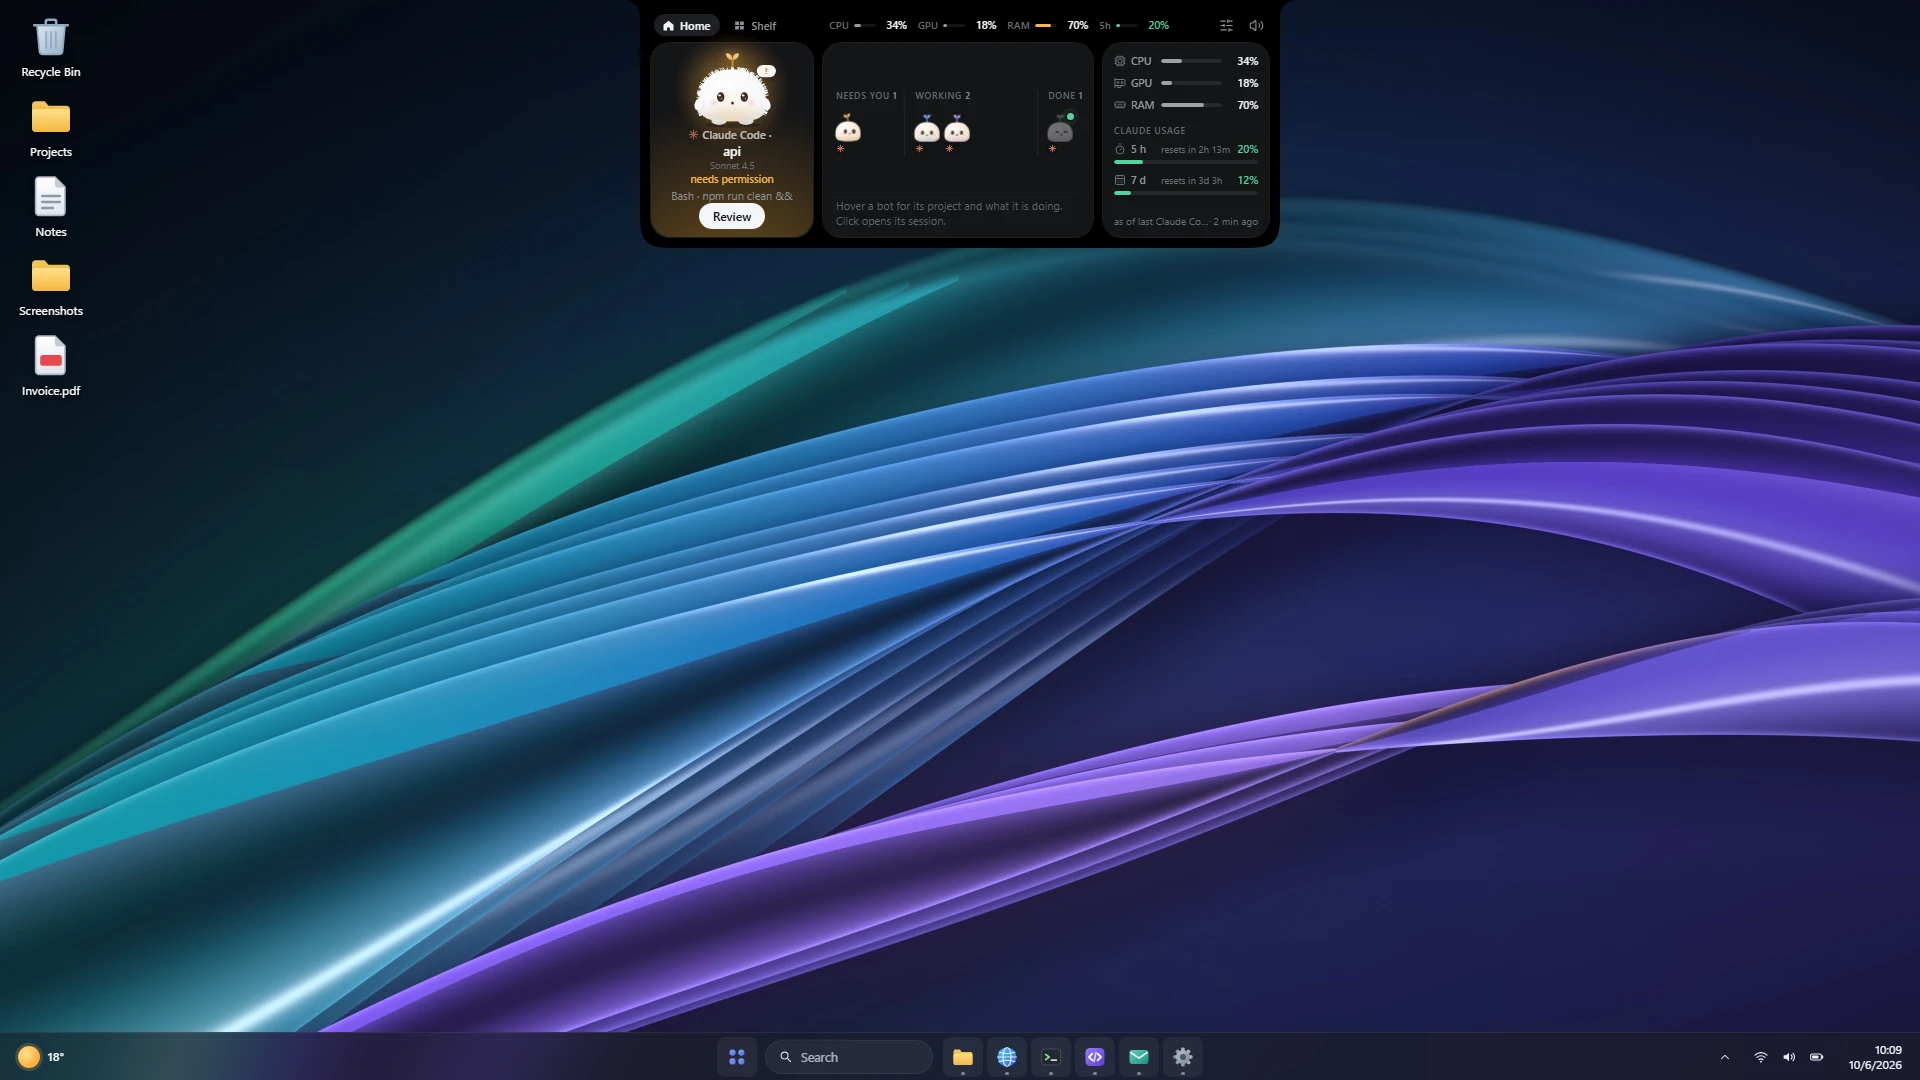
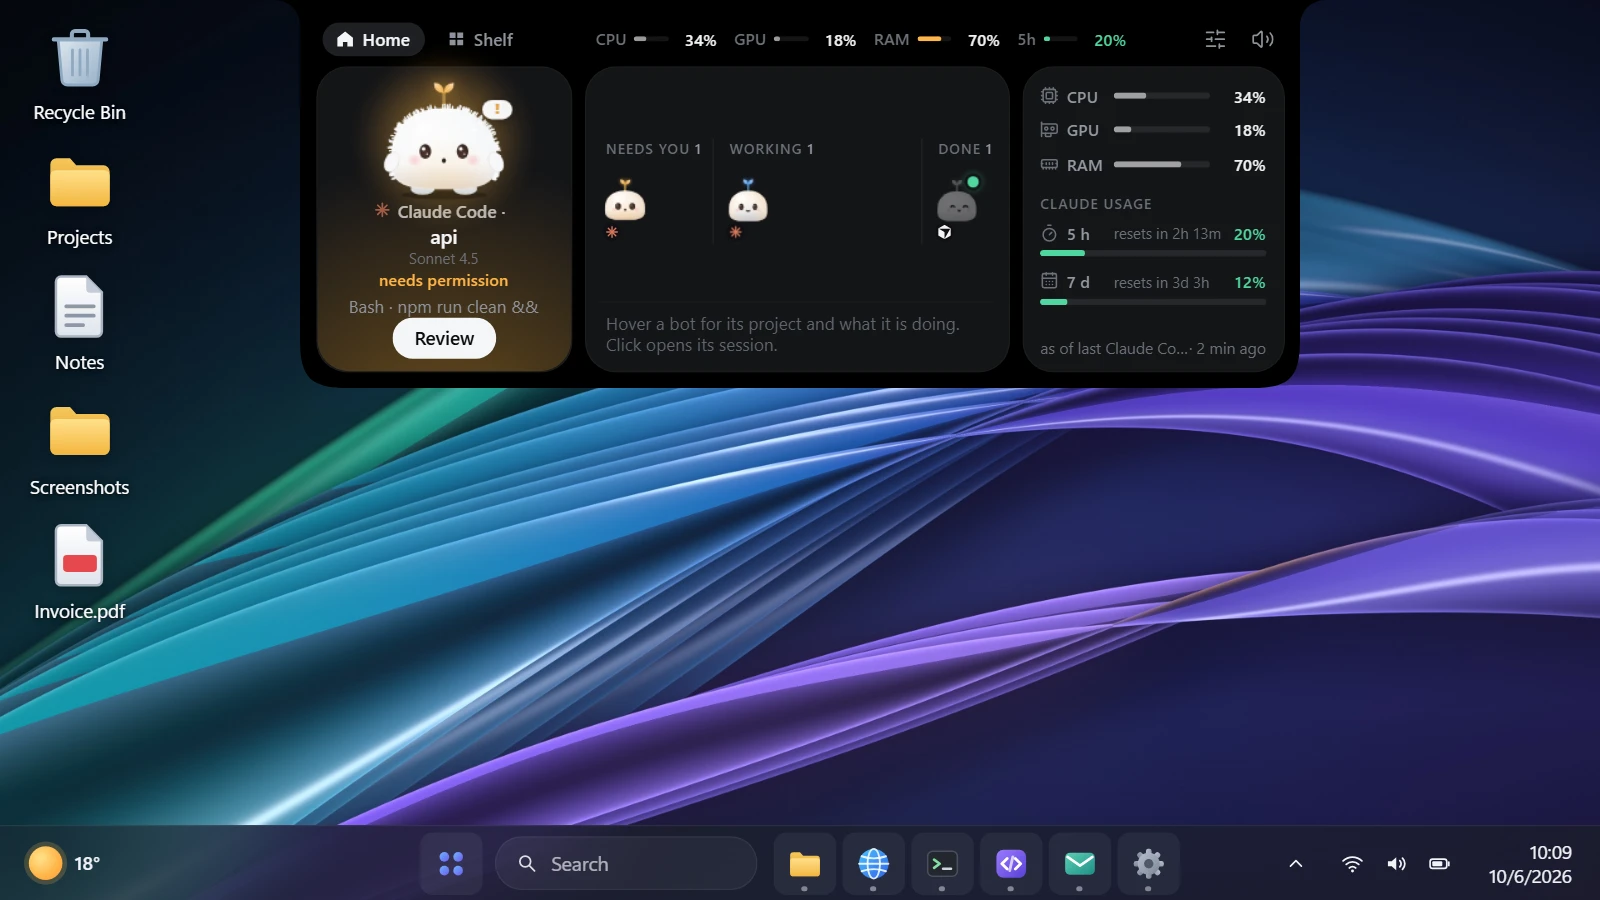
Make the README poster the Home view at 125% with a Cursor agent

diff --git a/windows/dev/claude-preview.ts b/windows/dev/claude-preview.ts
@@ -649,8 +649,16 @@ const HOME: HomeSpec[] = [
 const LONG = "D:\\work\\client-with-an-unreasonably-long-repository-name-2026-rewrite";
 const MODELS = ["claude-opus-5-5", "claude-sonnet-4-5", undefined, "claude-haiku-4-5-20251001"];
 
+// `tools=claude,claude,cursor` says which tool each home session runs in (default all Claude Code): a Cursor
+// session carries `nook_tool: "cursor"` as the relay sets it, and runs in Cursor. `names=web,api,docs` renames
+// the sessions' folders (D:\\work\\acme\\<name>), in the order of the sessions. Cursor never asks, so a
+// Cursor session should be working or finished.
+const TOOLS = (params.get("tools") ?? "").split(",").map((s) => s.trim());
+const NAMES = (params.get("names") ?? "").split(",").map((s) => s.trim()).filter(Boolean);
 function homeSession(i: number, spec: HomeSpec) {
-  const of: HookPayload = { session_id: `home-${i + 1}`, cwd: spec.cwd, session_title: undefined, ...TARGETS.wt };
+  const cursor = TOOLS[i] === "cursor";
+  if (NAMES[i]) spec = { ...spec, cwd: `D:\\work\\acme\\${NAMES[i]}` };
+  const of: HookPayload = { session_id: `home-${i + 1}`, cwd: spec.cwd, session_title: undefined, ...(cursor ? { ...TARGETS.cursor, nook_tool: "cursor" } : TARGETS.wt) };
   const send = (payload: HookPayload) => handleHook(island, { ...of, ...payload });
   const ago = Date.now() - spec.minutes * MIN;
   send({ hook_event_name: "SessionStart", model: MODELS[i % MODELS.length] });

diff --git a/docs/screenshots.md b/docs/screenshots.md
@@ -28,7 +28,7 @@ default 90), `--browser EXE`. The run fails (exit 1) on a page error, a missing 
 a shot that takes more than 30 s.
 
 Each image is captured by the browser as WebP at quality 90, then 85, 80, 75, 70 until it is under its budget
-(`budgetKB`, 150 by default, the hero 320). A loud warning follows if it is still over at 70.
+(`budgetKB`, 150 by default, the hero 250). A loud warning follows if it is still over at 70.
 `site/assets/img/shots/shots.json` lists `{id, variant, file, width, height, bytes, alt}` for every image, for the
 `width`/`height` attributes. A file is rewritten only when its pixels changed; some idle animation in the island
 makes a few stage shots differ by a few pixels from run to run, so after a full run use `git status` and keep only
@@ -47,7 +47,7 @@ the images you meant to change (or run with `--only`).
 | `page` | `stage` (`/dev/claude-preview.html`), `settings` (`/dev/settings-frame.html`: the Settings fake page in a Windows-style window with a shadow, on a transparent background) or `agents` |
 | `params` | query string or object: the keys of `windows/dev/README.md` (stage) or the fake-mode keys at the top of `src/settings/fake.ts` (settings). `theme`, `shot`, `w`, `h`, `time`, `date`, `seed`, `motion`, `wallpaper` and `scale` are added by the script |
 | `size` | `WxH`: the stage's display, or the Settings window |
-| `scale` | percent (default 100); `--125` etc. override it |
+| `scale` | percent (default 100), used when the shot is made, with no suffix on its files (the hero is 125); `--125` etc. override it for every shot and add the suffix |
 | `crop` | `{selector, pad}` (e.g. `#island` plus 40 px) or `{x,y,w,h}` in CSS px; clamped to the page; none = everything |
 | `variants` | `["dark","light"]` (default); `[]` for a manual shot with one file |
 | `wallpaper` | `nook` (default) or `bloom` |

diff --git a/windows/dev/README.md b/windows/dev/README.md
@@ -76,7 +76,7 @@ without checking Microsoft's terms; `wallpaper=nook` is the free-to-share look.
 
 `view=overview|session|question|approval|finished` (+ `live` `list` `file` `idle` `answered` `multi` `many` `diff`
 `reply=1|long`), `target=claude|vscode|cursor|wt|powershell|cmd|none`, `home=0|1|4|8|9|needs|long` (+ `hooks=0`
-`decision=1|main` `subs=two|asking|stopped|six`), `fold=1`, `cells=`, `screen=<px>`, `usage=fresh|stale|reset|soon|old|warm|hot|worst|none|off`,
+`decision=1|main` `subs=two|asking|stopped|six`), `tools=claude,claude,cursor` (the tool of each home session) + `names=web,api,docs` (their folders), `fold=1`, `cells=`, `screen=<px>`, `usage=fresh|stale|reset|soon|old|warm|hot|worst|none|off`,
 `metrics=live|worst|wait|off`, `gpu=none`, `tab=shelf` (+ `hidden=` `order=`), `sessions=1`, `subagents=1`
 (+ `ask=question|none` `queued=1` `stop=early|real|silent|both|same` `ids=missing`), `phantoms=`, `quiet=<s>`, `step=read|run`, `asked=1`.
 

diff --git a/README.md b/README.md
@@ -51,7 +51,7 @@ telemetry.
 
 <div align="center">
 
-<picture><source media="(prefers-color-scheme: light)" srcset="site/assets/img/shots/hero-light.webp"><img src="site/assets/img/shots/hero-dark.webp" alt="Nook open at the top of a Windows desktop: one session needs permission, two are working, one is done, with CPU, GPU, RAM and Claude usage beside them." width="860"></picture>
+<picture><source media="(prefers-color-scheme: light)" srcset="site/assets/img/shots/hero-light.webp"><img src="site/assets/img/shots/hero-dark.webp" alt="Nook open on the Home view at 125% scaling: three agents, two from Claude Code and one from Cursor, with CPU, GPU, RAM and Claude usage beside them." width="860"></picture>
 
 </div>
 
